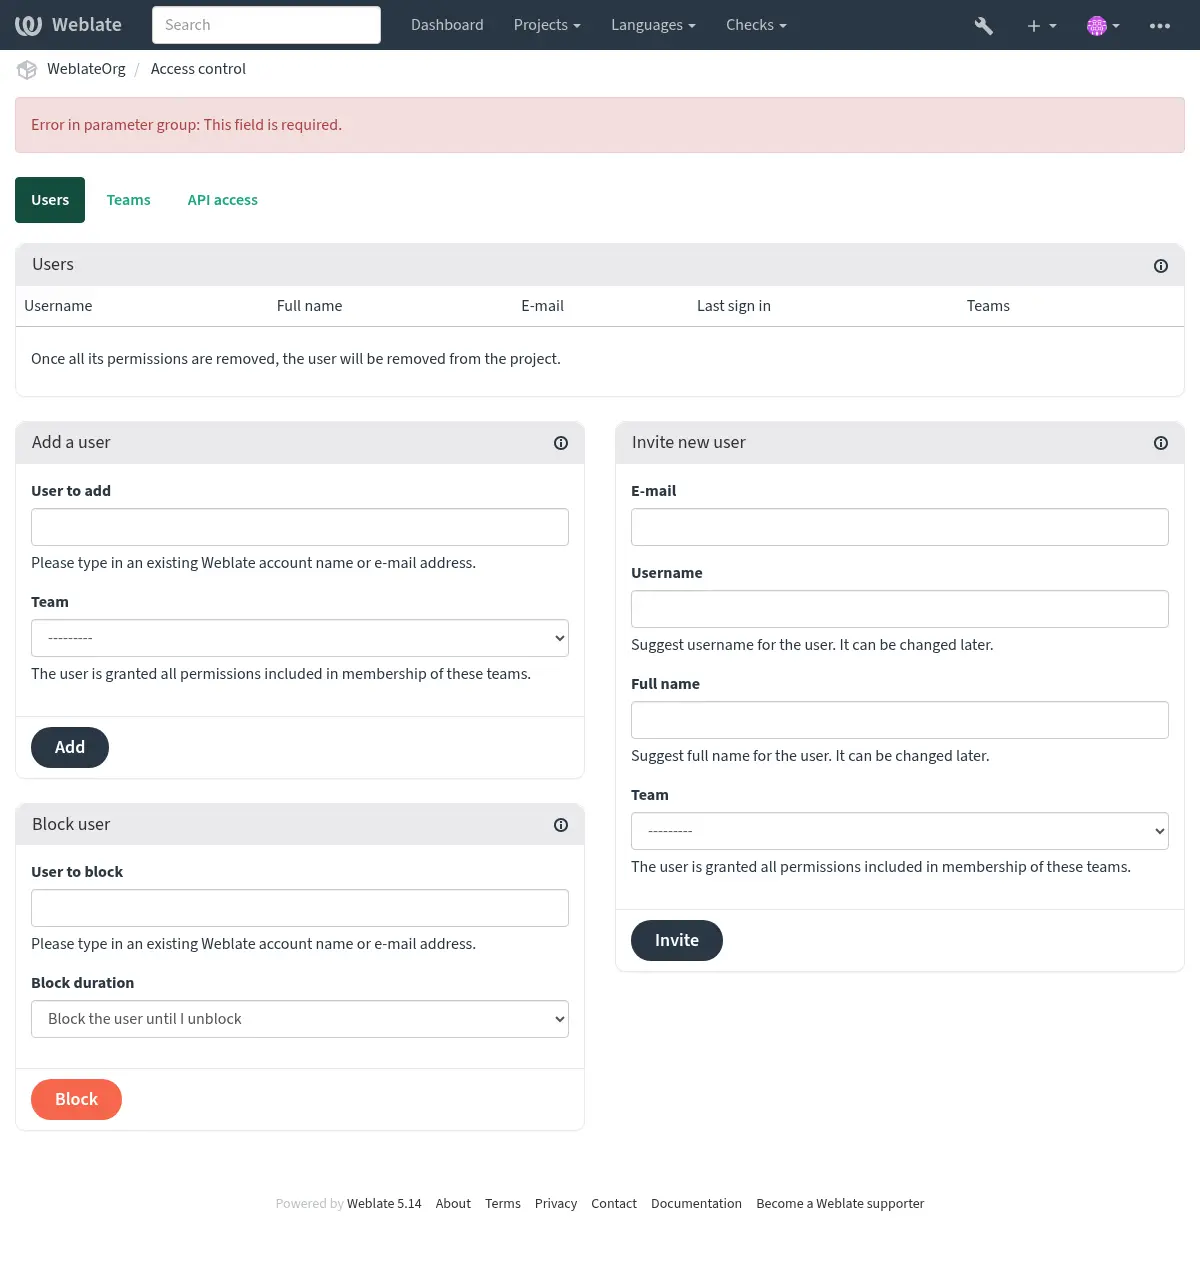
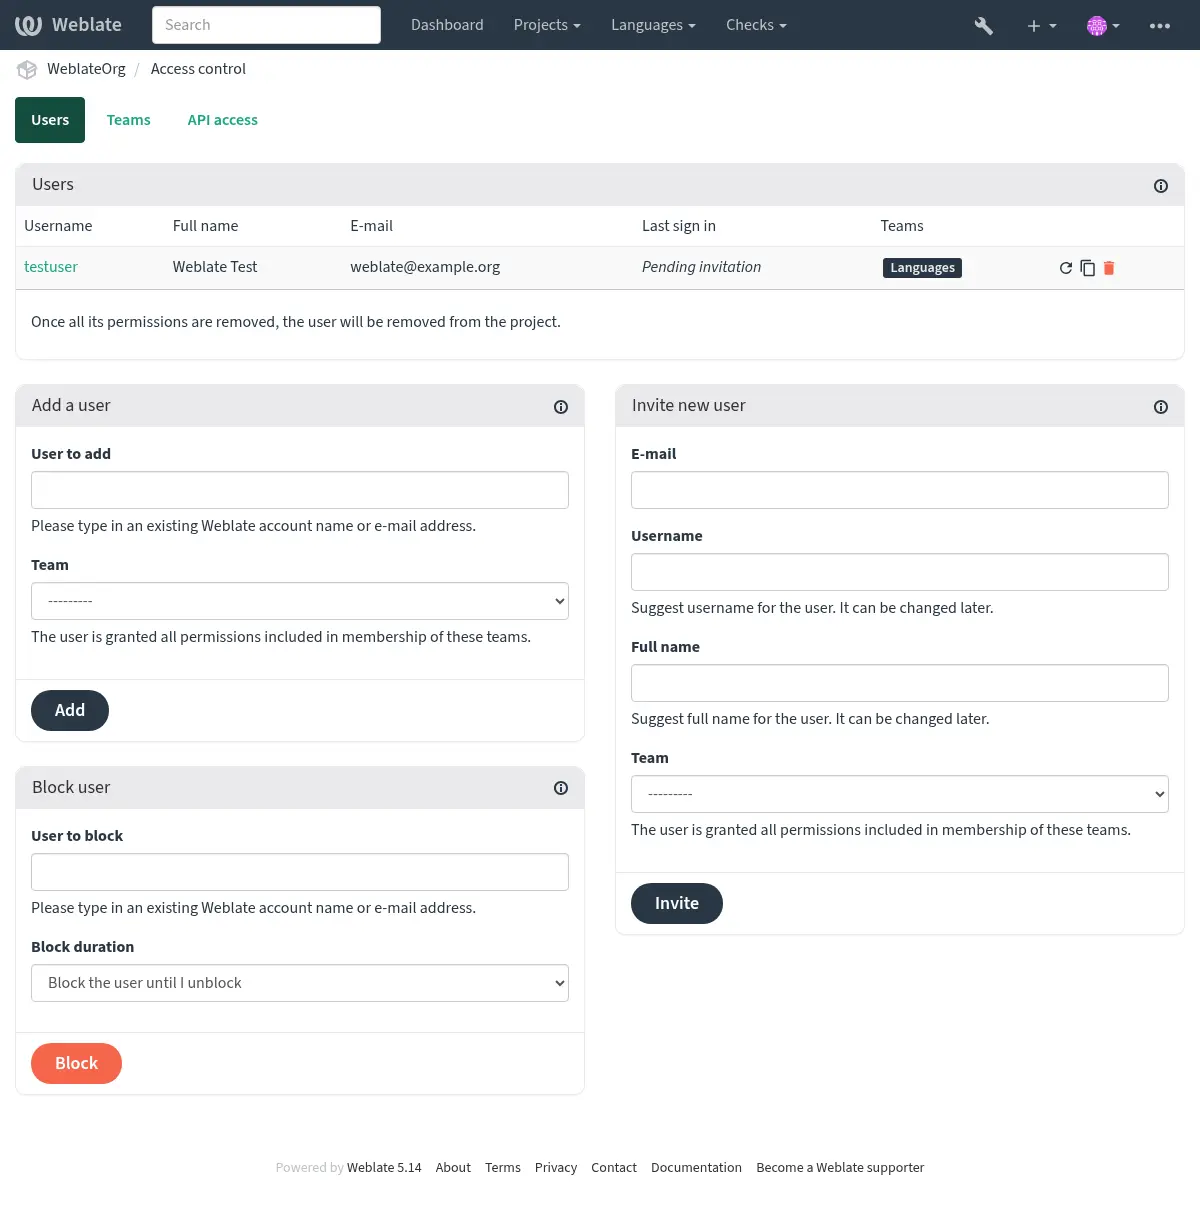
fix(tests): corrected test for adding users
Avoid having an error in the screnshot.

diff --git a/weblate/trans/tests/test_selenium.py b/weblate/trans/tests/test_selenium.py
@@ -35,6 +35,7 @@ from selenium.webdriver.support.expected_conditions import (
 )
 from selenium.webdriver.support.ui import Select, WebDriverWait
 
+from weblate.auth.models import User
 from weblate.fonts.tests.utils import FONT
 from weblate.lang.models import Language
 from weblate.screenshots.views import ensure_tesseract_language
@@ -59,7 +60,6 @@ if TYPE_CHECKING:
     from selenium.webdriver.remote.webdriver import WebDriver
     from selenium.webdriver.remote.webelement import WebElement
 
-    from weblate.auth.models import User
     from weblate.trans.models import Translation
 
 TEST_BACKENDS = (
@@ -772,8 +772,15 @@ class SeleniumTests(
             self.click("Users")
         element = self.driver.find_element(By.ID, "id_user")
         element.send_keys("testuser")
+        Select(self.driver.find_element(By.ID, "id_group")).select_by_index(1)
         with self.wait_for_page_load():
             element.submit()
+        user = User.objects.get(username="testuser")
+        self.assertTrue(
+            user.invitation_set.filter(
+                group__defining_project__name="WeblateOrg"
+            ).exists()
+        )
         with self.wait_for_page_load():
             self.click("Access control")
         self.screenshot("manage-users.png")
